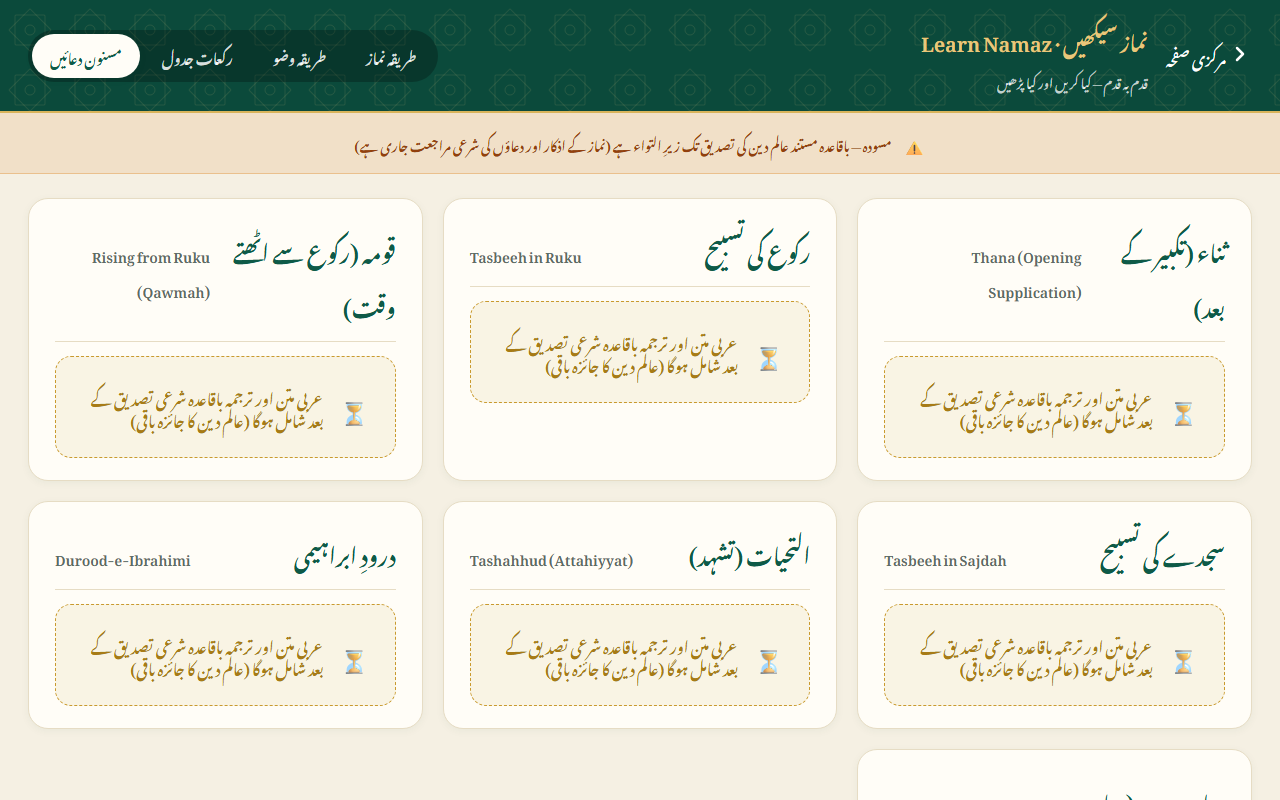
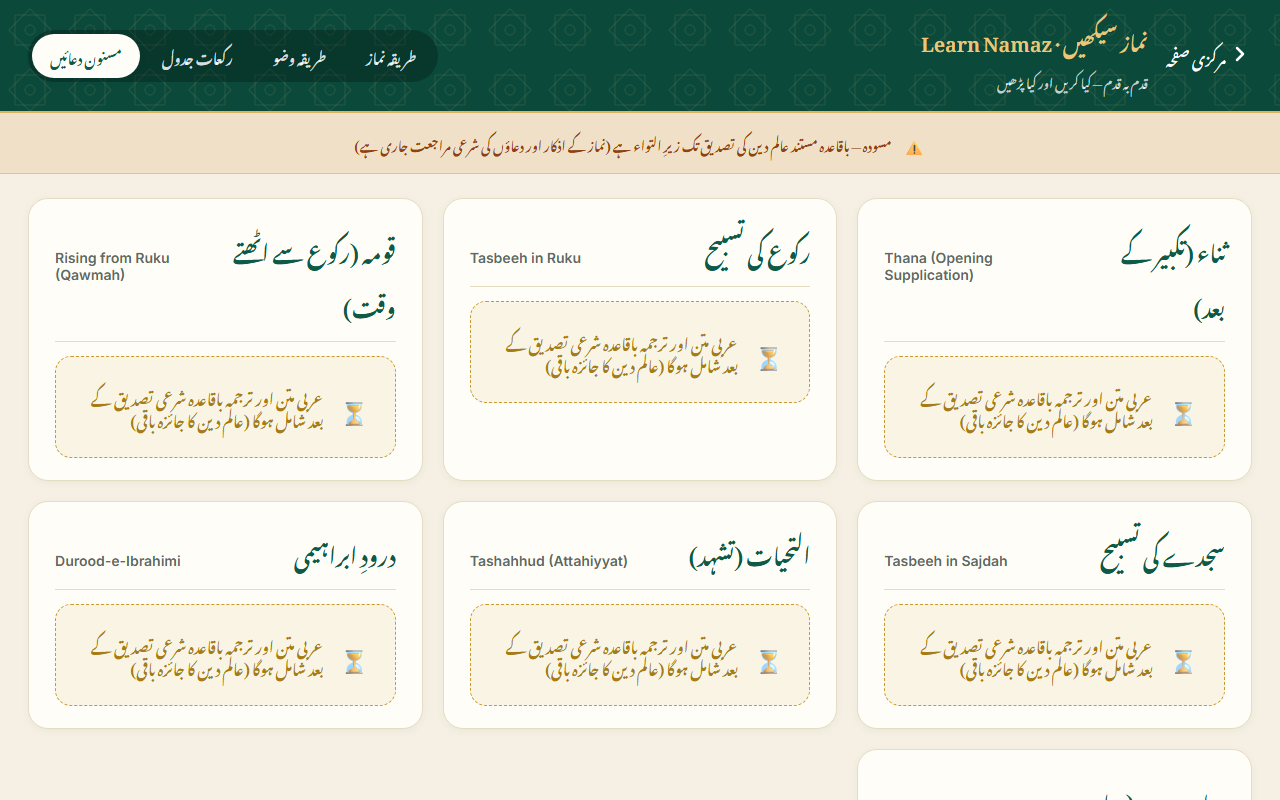
Fix root scroll swallowing, route scroll reset, and RTL English punctuation

diff --git a/tests/e2e/viewports_and_features.spec.js b/tests/e2e/viewports_and_features.spec.js
@@ -9,49 +9,108 @@ test.describe("Baseerah — Viewports & Live Stress Test Fixes", () => {
     fs.mkdirSync(screenshotsDir, { recursive: true });
   }
 
-  test("Item 2: Short and mobile viewports scroll gracefully without overlap", async ({ page }) => {
-    const viewports = [
+  test("Item 1: Real mouse wheel and keyboard scrolling works on short viewports without swallowing", async ({ page }) => {
+    const testViewports = [
       { width: 1280, height: 529, name: "laptop-short" },
-      { width: 1366, height: 650, name: "laptop-1366" },
       { width: 390, height: 844, name: "mobile-iphone" },
-      { width: 360, height: 640, name: "mobile-small" },
     ];
 
-    for (const vp of viewports) {
+    for (const vp of testViewports) {
       await page.setViewportSize({ width: vp.width, height: vp.height });
       await page.goto("/index.html#home");
       await page.waitForSelector("#brand-logo");
+      await page.evaluate(() => window.scrollTo(0, 0));
+      await page.waitForTimeout(100);
 
-      // Verify About button in normal flow is reachable and clickable
+      // Verify initial scroll position is 0
+      let scrollY = await page.evaluate(() => window.scrollY);
+      expect(scrollY).toBe(0);
+
+      // Real mouse wheel event (NOT window.scrollTo)
+      await page.mouse.move(vp.width / 2, vp.height / 2);
+      await page.mouse.wheel(0, 600);
+      await page.waitForTimeout(400);
+
+      scrollY = await page.evaluate(() => window.scrollY);
+      expect(scrollY).toBeGreaterThan(0);
+
+      // Reset to top with Home key
+      await page.keyboard.press("Home");
+      await page.waitForTimeout(200);
+
+      // Real keyboard End press (NOT window.scrollTo)
+      await page.keyboard.press("End");
+      await page.waitForTimeout(400);
+
+      const endScrollY = await page.evaluate(() => window.scrollY);
+      expect(endScrollY).toBeGreaterThan(0);
+
+      // Assert About button is visible in viewport
       const aboutBtn = page.locator(".footer-about-link");
-      await aboutBtn.scrollIntoViewIfNeeded();
-      await expect(aboutBtn).toBeVisible();
-
-      // Verify WBW tile is reachable and clickable
-      const wbwTile = page.locator(".tile-wide-wbw");
-      await wbwTile.scrollIntoViewIfNeeded();
-      await expect(wbwTile).toBeVisible();
-
-      // Verify Namaz tile is reachable and clickable
-      const namazTile = page.locator(".tile-namaz-emerald");
-      await namazTile.scrollIntoViewIfNeeded();
-      await expect(namazTile).toBeVisible();
-
-      // Verify Ayah-of-the-moment card is clamped and does not exceed 380px
-      const ayahCard = page.locator("#ayah-moment-card");
-      await expect(ayahCard).toBeVisible();
-      const cardBox = await ayahCard.boundingBox();
-      expect(cardBox).not.toBeNull();
-      if (cardBox) {
-        expect(cardBox.height).toBeLessThanOrEqual(385);
-      }
+      await expect(aboutBtn).toBeInViewport();
     }
+  });
 
-    // Capture screenshot on 1280x529
+  test("Item 2: Route changes reset scroll position to (0,0)", async ({ page }) => {
     await page.setViewportSize({ width: 1280, height: 529 });
-    await page.goto("/index.html#home");
-    await page.waitForSelector("#brand-logo");
-    await page.screenshot({ path: path.join(screenshotsDir, "short_viewport_1280x529.png") });
+    await page.goto("/index.html#namaz");
+    await page.waitForSelector(".namaz-header");
+
+    // Scroll down with mouse wheel on Namaz screen
+    await page.mouse.move(600, 300);
+    await page.mouse.wheel(0, 600);
+    await page.waitForTimeout(300);
+
+    const namazScroll = await page.evaluate(() => window.scrollY);
+    expect(namazScroll).toBeGreaterThan(0);
+
+    // Navigate to Quran screen via router
+    await page.evaluate(() => window.location.hash = "#quran/1/1");
+    await page.waitForSelector(".quran-header-emerald");
+
+    // Assert scroll position immediately reset to (0, 0) and header is fully visible
+    const newScrollY = await page.evaluate(() => window.scrollY);
+    expect(newScrollY).toBe(0);
+
+    const quranHeader = page.locator(".quran-header-emerald");
+    await expect(quranHeader).toBeInViewport();
+  });
+
+  test("Item 3: English text inside RTL containers has dir=ltr and unicode-bidi isolate", async ({ page }) => {
+    await page.goto("/index.html#namaz");
+    await page.waitForSelector(".namaz-header");
+
+    // Check Namaz step English elements
+    const railEn = page.locator(".rail-en").first();
+    await expect(railEn).toHaveAttribute("dir", "ltr");
+    const detailEn = page.locator(".detail-text-en");
+    await expect(detailEn).toHaveAttribute("dir", "ltr");
+
+    const detailBidi = await detailEn.evaluate((el) => {
+      const s = window.getComputedStyle(el);
+      return { dir: s.direction, bidi: s.unicodeBidi };
+    });
+    expect(detailBidi.dir).toBe("ltr");
+    expect(detailBidi.bidi).toBe("isolate");
+
+    // Check Wudu tab English elements
+    await page.click(".namaz-tab-btn[data-tab='wudu']");
+    const wuduTitleEn = page.locator(".wudu-title-en").first();
+    await expect(wuduTitleEn).toHaveAttribute("dir", "ltr");
+    const wuduInstEn = page.locator(".wudu-instruction-en").first();
+    await expect(wuduInstEn).toHaveAttribute("dir", "ltr");
+
+    // Check Quran translation card English body
+    await page.goto("/index.html#quran/1/1");
+    await page.waitForSelector(".trans-card-en");
+    const transEn = page.locator(".trans-card-en .trans-body-text");
+    await expect(transEn).toHaveAttribute("dir", "ltr");
+
+    // Check About screen
+    await page.goto("/index.html#about");
+    await page.waitForSelector(".about-card[dir='ltr']");
+    const aboutCardEn = page.locator(".about-card[dir='ltr']").first();
+    await expect(aboutCardEn).toBeVisible();
   });
 
   test("Item 3: Quran reading card never collapses below 300px on short viewports (2:282 & 9:1)", async ({ page }) => {

diff --git a/js/screens/namaz.js b/js/screens/namaz.js
@@ -129,7 +129,7 @@ function renderStepsTab(isUr) {
             <span class="rail-num urdu-num">${isUr ? toUrduDigits(idx + 1) : idx + 1}</span>
             <div class="rail-labels">
               <span class="rail-ur" lang="ur">${s.ur}</span>
-              <span class="rail-en">${s.en}</span>
+              <span class="rail-en" dir="ltr">${s.en}</span>
             </div>
           </button>
         `).join("")}
@@ -144,14 +144,14 @@ function renderStepsTab(isUr) {
           <div class="step-title-block">
             <span class="step-tag">${t("step", state.lang)} <span class="urdu-num">${isUr ? toUrduDigits(selectedStepIndex + 1) : selectedStepIndex + 1}</span></span>
             <h3 class="step-name-ur" lang="ur">${currentStep.ur}</h3>
-            <h4 class="step-name-en">${currentStep.en}</h4>
+            <h4 class="step-name-en" dir="ltr">${currentStep.en}</h4>
           </div>
         </div>
 
         <div class="detail-section">
           <h4 class="detail-section-title">${t("howToPerform", state.lang)}</h4>
           <p class="detail-text-ur" lang="ur">${currentStep.howUr || ""}</p>
-          <p class="detail-text-en">${currentStep.how || ""}</p>
+          <p class="detail-text-en" dir="ltr">${currentStep.how || ""}</p>
         </div>
 
         <div class="detail-section">
@@ -179,9 +179,9 @@ function renderWuduTab(isUr) {
         <div class="wudu-card">
           <div class="wudu-step-badge urdu-num">${isUr ? toUrduDigits(w.id) : w.id}</div>
           <h4 class="wudu-title-ur" lang="ur">${w.titleUr}</h4>
-          <h5 class="wudu-title-en">${w.titleEn}</h5>
+          <h5 class="wudu-title-en" dir="ltr">${w.titleEn}</h5>
           <p class="wudu-instruction-ur" lang="ur">${w.instructionUr}</p>
-          <p class="wudu-instruction-en">${w.instructionEn}</p>
+          <p class="wudu-instruction-en" dir="ltr">${w.instructionEn}</p>
         </div>
       `).join("")}
     </div>
@@ -232,7 +232,7 @@ function renderDuasTab(isUr) {
         <div class="dua-card" dir="${isUr ? "rtl" : "ltr"}">
           <div class="dua-header">
             <h4 class="dua-title-ur" lang="ur">${d.nameUr}</h4>
-            <span class="dua-title-en">${d.nameEn}</span>
+            <span class="dua-title-en" dir="ltr">${d.nameEn}</span>
           </div>
           ${d.ar ? `
             <div class="dua-arabic" lang="ar" dir="rtl">${d.ar}</div>

diff --git a/js/screens/about.js b/js/screens/about.js
@@ -35,25 +35,25 @@ export function renderAboutScreen(container) {
         <div class="about-section">
           <h3>${isUr ? "قرآنی متن کے ماخذ اور اسناد" : "Quran Text Sources & Attributions"}</h3>
           
-          <div class="about-card">
+          <div class="about-card" dir="ltr">
             <h4>1. Tanzil Project (تنزيل) — Ground Truth Arabic</h4>
             <p><strong>License:</strong> Creative Commons Attribution 3.0 Unported (CC BY 3.0).</p>
             <p><strong>Attribution:</strong> Tanzil Quran Text Copyright © 2007–2024 Tanzil Project. Tanzil Uthmani text serves as the unalterable verification ground truth for all 6,236 ayahs.</p>
           </div>
 
-          <div class="about-card">
+          <div class="about-card" dir="ltr">
             <h4>2. Quranic Universal Library (QUL) by Tarteel AI</h4>
             <p><strong>Resources:</strong> Script 59 (Indo-Pak Nastaleeq WBW), Script 89 (Indo-Pak Nastaleeq Ayahs), Translation 93 (Urdu WBW), Translation 92 (English WBW).</p>
             <p><strong>Attribution:</strong> Courtesy of Tarteel AI and the open Quran research community.</p>
           </div>
 
-          <div class="about-card">
+          <div class="about-card" dir="ltr">
             <h4>3. Indo-Pak Nastaleeq Typography</h4>
             <p><strong>Font:</strong> AlQuran IndoPak by QuranWBW (v2.100).</p>
             <p><strong>Author:</strong> Ayman Siddiqui (QuranWBW).</p>
           </div>
 
-          <div class="about-card">
+          <div class="about-card" dir="ltr">
             <h4>4. Full Ayah Translations (QuranEnc)</h4>
             <p><strong>Urdu:</strong> Maulana Muhammad Junagarhi (urdu_junagarhi), verified by King Fahd Glorious Quran Printing Complex.</p>
             <p><strong>English:</strong> Saheeh International (english_saheeh).</p>

diff --git a/css/styles.css b/css/styles.css
@@ -59,6 +59,30 @@
   font-family: var(--font-sans);
 }
 
+/* English text direction & BiDi punctuation isolation inside RTL containers */
+[dir="ltr"] {
+  direction: ltr !important;
+  unicode-bidi: isolate !important;
+  text-align: start;
+}
+
+.rail-en,
+.step-name-en,
+.detail-text-en,
+.wudu-title-en,
+.wudu-instruction-en,
+.dua-title-en,
+.dua-en,
+.tile-en,
+.trans-card-en,
+.trans-en,
+.moment-en,
+.footnote-body.en {
+  direction: ltr !important;
+  unicode-bidi: isolate !important;
+  text-align: start;
+}
+
 /* Force authentic Noto Naskh Arabic font with correct U+06F0–U+06F9 glyphs
    ONLY for pure digit elements (never elements with Urdu text) */
 .urdu-num,
@@ -74,13 +98,24 @@
   -webkit-tap-highlight-color: transparent;
 }
 
-html, body {
+html {
   margin: 0;
   padding: 0;
   min-height: 100dvh;
-  width: 100vw;
+  width: 100%;
   overflow-x: hidden;
   overflow-y: auto;
+  background: var(--color-parchment);
+  color: var(--color-ink);
+  font-family: var(--font-sans);
+}
+
+body {
+  margin: 0;
+  padding: 0;
+  min-height: 100dvh;
+  width: 100%;
+  overflow: visible;
   background: var(--color-parchment);
   color: var(--color-ink);
   font-family: var(--font-sans);
@@ -120,7 +155,7 @@ button:focus-visible {
 /* App container */
 .app-container {
   min-height: 100dvh;
-  width: 100vw;
+  width: 100%;
   display: flex;
   flex-direction: column;
 }
@@ -129,7 +164,7 @@ button:focus-visible {
 .screen {
   display: none;
   min-height: 100dvh;
-  width: 100vw;
+  width: 100%;
   flex-direction: column;
 }
 .screen.active {

diff --git a/js/screens/quran.js b/js/screens/quran.js
@@ -191,9 +191,9 @@ export async function renderQuranScreen(container, params = []) {
           <!-- English Translation (Left, LTR) -->
           <div class="trans-duo-card trans-card-en" dir="ltr">
             <div class="trans-duo-header">
-              <span class="trans-translator-tag">${t("translatorEnglish", state.lang)}</span>
+              <span class="trans-translator-tag" dir="ltr">${t("translatorEnglish", state.lang)}</span>
             </div>
-            <p class="trans-body-text">${enHtml}</p>
+            <p class="trans-body-text" dir="ltr">${enHtml}</p>
           </div>
 
           <!-- Urdu Translation (Right, RTL) -->

diff --git a/js/core/router.js b/js/core/router.js
@@ -47,6 +47,9 @@ class Router {
     const appEl = document.getElementById("app-container");
     if (handler && appEl) {
       handler(appEl, params);
+      window.scrollTo(0, 0);
+      if (document.documentElement) document.documentElement.scrollTop = 0;
+      if (document.body) document.body.scrollTop = 0;
     }
   }
 }
